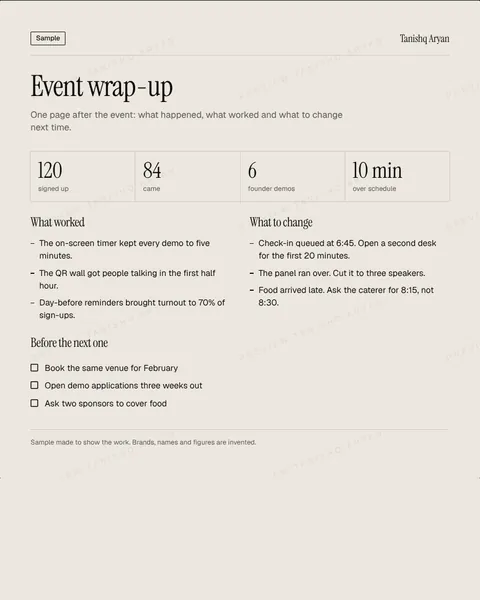
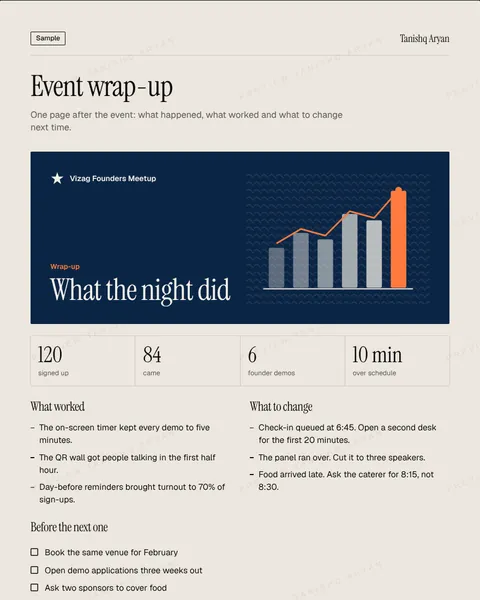
Samples: designed covers for all 28 document samples
Each document now opens with a cover in its client's colours: the mark, the document type, a large title and one hand-drawn SVG motif (checklist, bracket, run-of-show clock, chart, timeline, journey flow, phone frames, chat, pillars, subtitle safe zone). Real-work samples use my own colours and only case-study facts.

Claude-Session: https://claude.ai/code/session_01SNbshdL1jfRLnRqdmW6ccL

diff --git a/src/components/samples/art/cover.jsx b/src/components/samples/art/cover.jsx
@@ -1,0 +1,163 @@
+import React from 'react';
+import { Mark, Pattern } from './illo';
+
+/*
+  The designed cover that opens each document sample: the client's colours and mark, the document's name set large,
+  and one drawn motif that says what kind of document it is. Motifs are hand-built SVG in a 320 x 240 box.
+*/
+
+const Motif = ({ kind, c, data = {} }) => {
+  const { ink, accent, soft } = c;
+  switch (kind) {
+    case 'figure':
+      return (
+        <g>
+          <text x="300" y="150" textAnchor="end" fontFamily="var(--serif)" fontSize="128" fill={ink}>{data.value}</text>
+          <rect x="182" y="172" width="118" height="3" fill={accent} />
+          <text x="300" y="198" textAnchor="end" fontFamily="var(--sans)" fontSize="13" fill={ink} opacity="0.85">{data.label}</text>
+        </g>
+      );
+    case 'bracket': {
+      const ys = [40, 80, 120, 160, 200];
+      return (
+        <g stroke={ink} strokeWidth="2.4" fill="none" strokeLinecap="round">
+          {[0, 2].map((i) => <path key={i} d={`M40 ${ys[i] - 14} H110 V${ys[i] + 26} H40 M110 ${ys[i] + 6} H170`} />)}
+          <path d="M170 46 V146 M170 96 H232" />
+          <path d="M40 190 H170 V146" opacity="0.45" />
+          <rect x="232" y="80" width="64" height="32" rx="4" fill={accent} stroke="none" />
+          <path d="M252 96 l7 7 l14 -16" stroke={c.bg} strokeWidth="3" />
+        </g>
+      );
+    }
+    case 'timeline':
+      return (
+        <g>
+          {(data.bars ?? [[0, 70], [40, 90], [100, 70], [130, 90], [190, 60], [230, 60]]).map(([x, w], i) => (
+            <rect key={i} x={30 + x} y={28 + i * 32} width={w} height="18" rx="9" fill={i === (data.hi ?? 3) ? accent : ink} opacity={i === (data.hi ?? 3) ? 1 : 0.85 - i * 0.08} />
+          ))}
+          <path d="M30 222 H300" stroke={ink} strokeWidth="1.5" opacity="0.5" />
+          {[0, 1, 2, 3, 4, 5].map((i) => <path key={i} d={`M${30 + i * 54} 218 V226`} stroke={ink} strokeWidth="1.5" opacity="0.5" />)}
+        </g>
+      );
+    case 'bars':
+      return (
+        <g>
+          {(data.values ?? [38, 52, 46, 70, 64, 92]).map((v, i, a) => (
+            <rect key={i} x={40 + i * 44} y={210 - v * 1.9} width="28" height={v * 1.9} rx="3" fill={i === a.length - 1 ? accent : ink} opacity={i === a.length - 1 ? 1 : 0.35 + i * 0.1} />
+          ))}
+          <path d="M30 212 H300" stroke={ink} strokeWidth="2" />
+          <path d="M54 130 L98 104 L142 116 L186 72 L230 84 L274 34" stroke={accent} strokeWidth="3" fill="none" strokeLinejoin="round" />
+          <circle cx="274" cy="34" r="6" fill={accent} />
+        </g>
+      );
+    case 'pillars':
+      return (
+        <g>
+          <path d="M28 46 L164 14 L300 46 Z" fill={accent} />
+          {[0, 1, 2, 3, 4, 5].map((i) => (
+            <rect key={i} x={40 + i * 44} y="58" width="28" height="140" rx="2" fill={ink} opacity={0.95 - i * 0.07} />
+          ))}
+          <rect x="22" y="204" width="284" height="14" rx="2" fill={ink} />
+        </g>
+      );
+    case 'flow': {
+      const n = [[50, 70], [150, 70], [250, 70], [250, 170], [150, 170]];
+      return (
+        <g>
+          <path d="M50 70 H250 V170 H150" stroke={ink} strokeWidth="2.4" fill="none" strokeDasharray="6 6" />
+          {n.map(([x, y], i) => (
+            <g key={i}>
+              <circle cx={x} cy={y} r="26" fill={i === (data.hi ?? 2) ? accent : soft} stroke={ink} strokeWidth="2.4" />
+              <text x={x} y={y + 7} textAnchor="middle" fontFamily="var(--serif)" fontSize="22" fill={ink}>{i + 1}</text>
+            </g>
+          ))}
+        </g>
+      );
+    }
+    case 'frames':
+      return (
+        <g>
+          {[0, 1, 2].map((i) => (
+            <g key={i} transform={`translate(${44 + i * 88} ${22 + (i % 2) * 22}) rotate(${(i - 1) * 4} 36 90)`}>
+              <rect width="72" height="150" rx="10" fill={i === 1 ? accent : soft} stroke={ink} strokeWidth="2.4" />
+              <rect x="10" y="108" width="52" height="7" rx="3.5" fill={ink} opacity="0.8" />
+              <rect x="16" y="120" width="40" height="7" rx="3.5" fill={ink} opacity="0.5" />
+              {i === 1 && <path d="M28 58 L48 70 L28 82 Z" fill={ink} />}
+            </g>
+          ))}
+        </g>
+      );
+    case 'chat':
+      return (
+        <g fontFamily="var(--sans)" fontSize="13">
+          <path d="M40 40 H230 Q246 40 246 56 V92 Q246 108 230 108 H72 L52 124 V108 Q40 108 40 92 Z" fill={soft} stroke={ink} strokeWidth="2.2" />
+          <rect x="58" y="58" width="150" height="8" rx="4" fill={ink} opacity="0.75" />
+          <rect x="58" y="78" width="100" height="8" rx="4" fill={ink} opacity="0.45" />
+          <path d="M100 140 H288 Q300 140 300 152 V186 Q300 198 288 198 H276 V214 L258 198 H100 Q88 198 88 186 V152 Q88 140 100 140 Z" fill={accent} />
+          <rect x="110" y="158" width="150" height="8" rx="4" fill={c.bg} opacity="0.9" />
+          <rect x="110" y="176" width="90" height="8" rx="4" fill={c.bg} opacity="0.6" />
+        </g>
+      );
+    case 'checks':
+      return (
+        <g>
+          {[0, 1, 2, 3, 4].map((i) => (
+            <g key={i} transform={`translate(44 ${24 + i * 40})`}>
+              <rect width="26" height="26" rx="5" fill={i < (data.done ?? 3) ? accent : 'none'} stroke={ink} strokeWidth="2.4" />
+              {i < (data.done ?? 3) && <path d="M6 13 l5 5 l10 -11" stroke={ink} strokeWidth="3" fill="none" />}
+              <rect x="42" y="9" width={[190, 150, 210, 130, 170][i]} height="9" rx="4.5" fill={ink} opacity={i < (data.done ?? 3) ? 0.35 : 0.85} />
+            </g>
+          ))}
+        </g>
+      );
+    case 'clock':
+      return (
+        <g fill="none" stroke={ink} strokeWidth="2.4">
+          <circle cx="170" cy="120" r="94" />
+          <path d="M170 120 L170 26 A94 94 0 0 1 251 167 Z" fill={accent} stroke="none" />
+          <circle cx="170" cy="120" r="94" />
+          {Array.from({ length: 12 }, (_, i) => {
+            const a = (i * Math.PI) / 6;
+            return <path key={i} d={`M${170 + Math.sin(a) * 80} ${120 - Math.cos(a) * 80} L${170 + Math.sin(a) * 90} ${120 - Math.cos(a) * 90}`} />;
+          })}
+          <path d="M170 120 L170 58 M170 120 L214 140" strokeWidth="4" strokeLinecap="round" />
+          <circle cx="170" cy="120" r="5" fill={ink} />
+        </g>
+      );
+    case 'subtitle':
+      return (
+        <g>
+          <rect x="96" y="12" width="128" height="220" rx="14" fill={soft} stroke={ink} strokeWidth="2.4" />
+          <rect x="108" y="150" width="104" height="22" rx="4" fill={ink} />
+          <text x="160" y="165" textAnchor="middle" fontFamily="var(--sans)" fontSize="11" fontWeight="700" fill={c.bg}>{data.line ?? 'ninety seconds'}</text>
+          <rect x="108" y="44" width="104" height="96" fill="none" stroke={accent} strokeWidth="2" strokeDasharray="4 4" />
+          <text x="234" y="96" fontFamily="var(--sans)" fontSize="10" fill={ink}>safe zone</text>
+        </g>
+      );
+    default:
+      return null;
+  }
+};
+
+export function Cover({ client, mark, theme, kind, title, line, motif, data }) {
+  const uid = React.useId().replace(/:/g, '');
+  const c = { bg: theme.bg, ink: theme.ink, accent: theme.accent, soft: theme.soft ?? theme.bg };
+  return (
+    <div className="art art-cover" style={{ background: c.bg, color: c.ink }}>
+      <div className="acv-text">
+        <p className="acv-client">
+          {mark && <Mark kind={mark} fill={c.ink} bg={c.bg} size={26} />}
+          <span>{client}</span>
+        </p>
+        <p className="acv-kind" style={{ color: c.accent }}>{kind}</p>
+        <p className="acv-title">{title}</p>
+        {line && <p className="acv-line">{line}</p>}
+      </div>
+      <svg className="acv-art" viewBox="0 0 330 240" aria-hidden="true">
+        <defs><Pattern id={`cv${uid}`} kind={theme.pattern ?? 'dots'} color={c.ink} size={18} /></defs>
+        <rect x="0" y="0" width="330" height="240" fill={`url(#cv${uid})`} opacity="0.12" />
+        <Motif kind={motif} c={c} data={data} />
+      </svg>
+    </div>
+  );
+}

diff --git a/src/data/covers.js b/src/data/covers.js
@@ -1,0 +1,52 @@
+/*
+  Covers for the document samples: each opens with a designed panel in its client's colours.
+  Real-work samples use my own colours and only the case study's facts.
+*/
+
+const T = {
+  me: { bg: '#0d0c0b', ink: '#ece7df', accent: '#c8a46a', soft: '#1f1d1a', pattern: 'dots' },
+  meetup: { bg: '#0B2545', ink: '#F3EFE7', accent: '#FF7A3D', soft: '#17375E', pattern: 'waves' },
+  plate: { bg: '#D64933', ink: '#FFF5EE', accent: '#F2B33D', soft: '#E06A55', pattern: 'bloom' },
+  halli: { bg: '#1E3A2F', ink: '#EEF0EA', accent: '#E3B65B', soft: '#2A4C3E', pattern: 'dots' },
+  neel: { bg: '#24346E', ink: '#F2F0EA', accent: '#F05A28', soft: '#3E5196', pattern: 'waves' },
+  kite: { bg: '#0F766E', ink: '#F4FBF9', accent: '#FACC15', soft: '#168579', pattern: 'chevron' },
+  tiffin: { bg: '#2F6B3A', ink: '#FFF8E7', accent: '#FBE7A1', soft: '#3C7D47', pattern: 'bloom' },
+};
+
+const C = (theme, mark, client, kind, title, motif, extra = {}) => ({ theme: T[theme], mark, client, kind, title, motif, ...extra });
+
+export const covers = {
+  'tournament-ruleset': C('me', null, 'Tekken 8 tournament system', 'Ruleset', 'How the day runs', 'checks', { line: 'Double elimination. Best of 3, finals best of 5.', data: { done: 2 } }),
+  'tournament-bracket': C('me', null, 'Tekken 8 Campus Open', 'Top 8 bracket', 'Nobody is out after one loss', 'bracket'),
+  'meetup-registration': C('meetup', 'star', 'Vizag Founders Meetup', 'Registration', 'Save your seat', 'checks', { line: 'Friday 4 December, The Deck, Beach Road.' }),
+  'meetup-run-of-show': C('meetup', 'star', 'Vizag Founders Meetup', 'Run of show', 'Minute by minute', 'clock'),
+  'meetup-wrap-up': C('meetup', 'star', 'Vizag Founders Meetup', 'Wrap-up', 'What the night did', 'bars'),
+
+  'creator-media-kit': C('plate', 'plate', 'Plate Postcard', 'Media kit', 'Street food, honestly', 'figure', { data: { value: '86K', label: 'Instagram followers' } }),
+  'brand-pitch-email': C('plate', 'plate', 'Plate Postcard', 'Pitch email', 'One idea, one easy yes', 'chat'),
+  'campaign-brief': C('plate', 'plate', 'Halli Roasters with Plate Postcard', 'Campaign brief', 'First sip', 'frames', { line: '7 to 28 January.' }),
+  'deliverables-tracker': C('plate', 'plate', 'First sip campaign', 'Deliverables tracker', 'Three of ten done', 'checks', { data: { done: 2 } }),
+  'campaign-results': C('plate', 'plate', 'First sip campaign', 'Results', 'How First sip did', 'bars'),
+
+  'reel-script': C('halli', 'bean', 'Halli Roasters', 'Reel script', 'Café filter coffee at home', 'frames', { line: '30 seconds, for Reels and Shorts.' }),
+  'hook-bank': C('me', null, 'Five niches', 'Hook bank', 'Two seconds to stop the scroll', 'chat'),
+  'posting-plan': C('neel', 'drop', 'Neel Studio', 'Posting plan', 'The indigo drop', 'timeline', { line: 'Two weeks on Instagram and WhatsApp.', data: { hi: 4 } }),
+  'subtitles': C('halli', 'bean', 'Halli Roasters', 'Subtitles', 'Every word on screen', 'subtitle', { data: { line: 'Three steps.' } }),
+
+  'campaign-plan': C('halli', 'bean', 'Halli Roasters', 'Campaign plan', 'Festive gift boxes', 'timeline', { line: 'Four weeks to 400 boxes.' }),
+  'social-audit': C('tiffin', 'tiffin', 'Tiffin Lab', 'Social audit', 'Three out of five', 'bars', { line: 'Instagram, the last 90 days.', data: { values: [62, 40, 55, 30, 48, 60] } }),
+  'customer-journey': C('neel', 'drop', 'Neel Studio', 'Customer journey', 'From scroll to second order', 'flow', { data: { hi: 4 } }),
+  'monthly-report': C('tiffin', 'tiffin', 'Tiffin Lab', 'Monthly report', 'October', 'bars', { line: 'Compared with September.' }),
+
+  'six-pillar-model': C('me', null, 'Esports organisation research', 'Model', 'Six pillars', 'pillars'),
+  'dissertation-at-a-glance': C('me', null, 'MA Games Design dissertation', 'At a glance', 'Esports education and work', 'flow'),
+  'operating-model': C('me', null, 'Indian esports research', 'Operating model', 'Structure before expansion', 'pillars'),
+  'one-page-summary': C('me', null, 'Esports organisation research', 'One-page summary', 'Why organisations last', 'bars'),
+  'competitor-snapshot': C('halli', 'bean', 'Halli Roasters', 'Competitor snapshot', 'Where Halli stands', 'bars', { data: { values: [44, 70, 58, 86, 52, 64] } }),
+
+  'onboarding-checklist': C('kite', 'kite', 'Kitepoint', 'Onboarding checklist', 'From yes to first work', 'checks'),
+  'launch-project-plan': C('kite', 'kite', 'Kitepoint', 'Project plan', 'A new website in six weeks', 'timeline', { data: { hi: 5 } }),
+  'weekly-status-update': C('kite', 'kite', 'Kitepoint website', 'Status update', 'Week 4 of 6, on track', 'timeline', { data: { hi: 3 } }),
+  'order-process-map': C('tiffin', 'tiffin', 'Tiffin Lab', 'Process map', 'App to doorstep', 'flow', { data: { hi: 3 } }),
+  'ai-enquiry-workflow': C('kite', 'kite', 'Kitepoint', 'Workflow', 'AI drafts, a person sends', 'chat'),
+};

diff --git a/src/index.css b/src/index.css
@@ -820,3 +820,17 @@
   .resume section { break-inside: auto; }
   a { text-decoration: none; }
 }
+
+/* Document covers */
+.art-cover { display: grid; grid-template-columns: minmax(0, 1.05fr) minmax(0, 1fr); align-items: stretch; gap: 8px; padding: clamp(20px, 3.2vw, 36px); border-radius: 2px; min-height: 260px; overflow: hidden; }
+.acv-text { display: flex; flex-direction: column; min-width: 0; }
+.acv-client { display: flex; align-items: center; gap: 10px; font-size: 14px; font-weight: 600; }
+.acv-kind { margin-top: auto; padding-top: 28px; font-size: 13px; font-weight: 600; }
+.acv-title { font-family: var(--serif); font-size: clamp(2.3rem, 4.6vw, 3.6rem); line-height: 0.98; letter-spacing: -0.02em; margin-top: 6px; text-wrap: balance; }
+.acv-line { margin-top: 14px; font-size: 14px; opacity: 0.82; max-width: 34ch; }
+.acv-art { width: 100%; height: 100%; max-height: 300px; align-self: center; }
+@media (max-width: 640px) {
+  .art-cover { grid-template-columns: minmax(0, 1fr); }
+  .acv-art { max-height: 200px; order: -1; }
+  .acv-kind { padding-top: 12px; }
+}

diff --git a/src/data/samples.js b/src/data/samples.js
@@ -11,6 +11,7 @@
 */
 
 import { leadMagnetSample, storyboardSample, visualSamples } from './samples-visual.js';
+import { covers } from './covers.js';
 
 const TEKKEN = { label: 'Tekken 8 collegiate tournament system', to: '/project/2' };
 const ORGS = { label: 'Conceptual Model for Sustainable Esports Organisations', to: '/project/1' };
@@ -638,8 +639,10 @@ const after = (list, id, item) => {
   return [...list.slice(0, i + 1), item, ...list.slice(i + 1)];
 };
 
+const withCovers = docs.map((d) => (covers[d.id] ? { ...d, blocks: [{ t: 'art', kind: 'cover', props: covers[d.id] }, ...d.blocks] } : d));
+
 export const samples = [
-  ...after(after(docs, 'reel-script', storyboardSample), 'monthly-report', leadMagnetSample),
+  ...after(after(withCovers, 'reel-script', storyboardSample), 'monthly-report', leadMagnetSample),
   ...visualSamples,
 ];
 

diff --git a/src/components/samples/art.js b/src/components/samples/art.js
@@ -4,6 +4,7 @@ import { Site } from './art/web';
 import { Merch } from './art/merch';
 import { Dieline, Jar, Mailer, Pouch, Tags } from './art/pack';
 import { LeadMagnet, Storyboard } from './art/story';
+import { Cover } from './art/cover';
 
 export const ART = {
   identity: Identity,
@@ -20,4 +21,5 @@ export const ART = {
   mailer: Mailer,
   storyboard: Storyboard,
   lead: LeadMagnet,
+  cover: Cover,
 };
